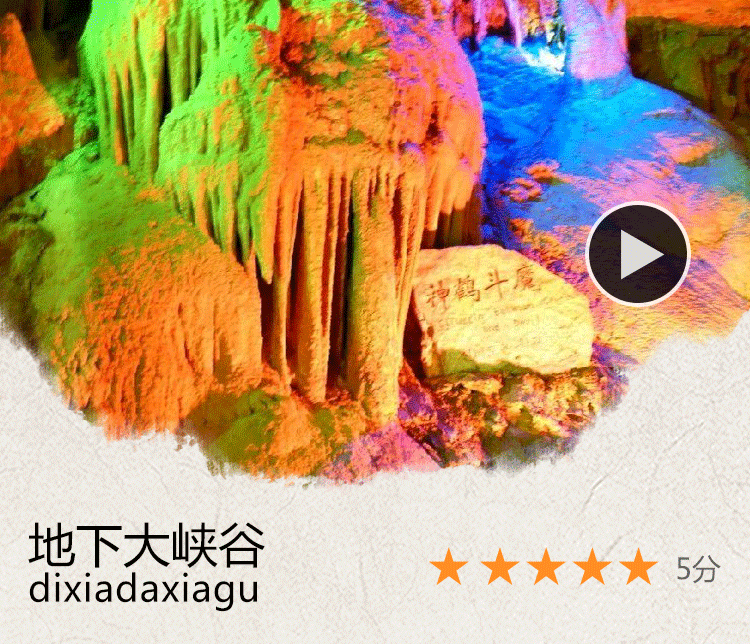
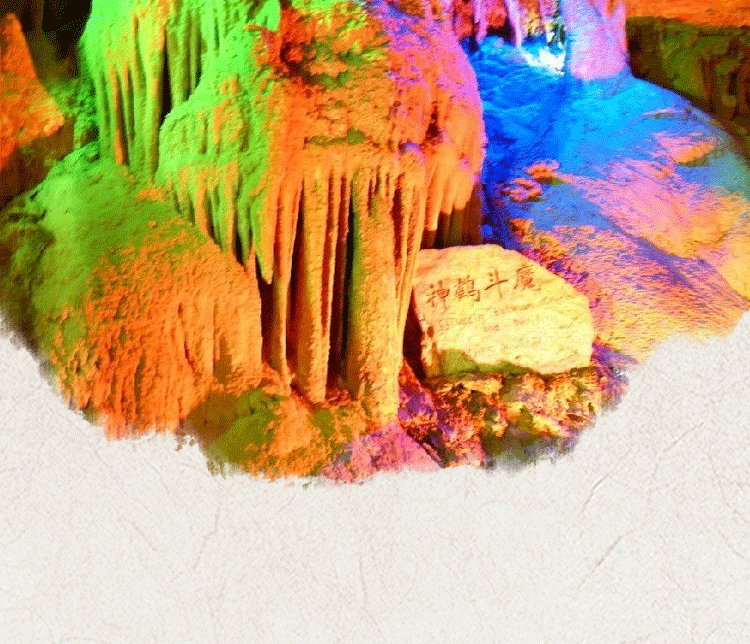
链接页面

diff --git a/public/css/style.css b/public/css/style.css
@@ -164,6 +164,40 @@ input[type="number"] {
 	width: 100%;
 	height: 100%;
 }
+.img_video{
+	top: 50px;
+    right: 20px;
+    width: 40px;
+    height: 40px;
+	background:url("../images/video.png");
+	background-size:100%;
+}
+.scenicTitle{
+    left: 18px;
+    bottom: 20px;
+    font-weight: bolder;
+}
+.scenicTitle span{
+	display: block;
+}
+.scenicTitle span:nth-of-type(1){
+	font-size: 20px;
+}
+.scenicTitle span:nth-of-type(2){
+	font-size: 16px;
+}
+#detail_info_show{
+	width: 100%;
+    height: 100px;
+    overflow-y: scroll;
+    bottom: 0px; 
+    background: url(../images/bg-2.png) repeat;
+} 
+.scenicTXX{
+	width: 93px;
+    bottom: 37px;
+    right: 30px;
+}
 .scenic{
 	padding: 20px 10px;
 	text-align: left;
@@ -251,6 +285,7 @@ input[type="number"] {
 	text-align: center;
 }
 .review_personName{
+	display: block;
 	font-size: 12px;
 	color: #4CB1D3;
 }
@@ -263,9 +298,10 @@ input[type="number"] {
 	font-size: 16px;
 	padding: 10px 0;
 	line-height: 1.7;
+	clear: both;
 }
 .review_more{
-	padding: 10px 0;
+	    padding: 10px 0 29px 0;
 	text-align: center;
 }
 .review_more a{
